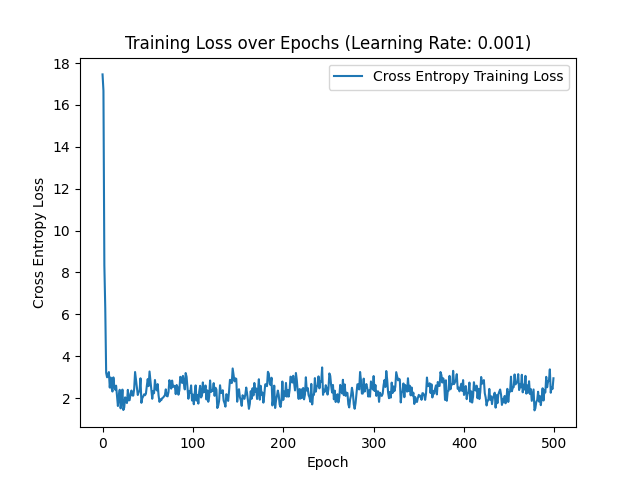
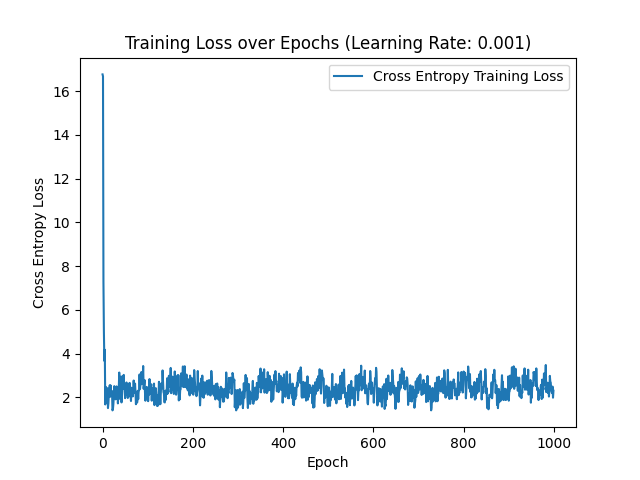
Plot training and testing accuracies too for each epoch

diff --git a/neural_network.py b/neural_network.py
@@ -52,6 +52,11 @@ class NeuralNetwork:
 
         # Initializes loss array
         self.__training_losses = []
+        self.__testing_losses = []
+
+        # Initialize accuracy array
+        self.__training_accuracies = []
+        self.__testing_accuracies = []
 
     def __forward(self, x: []):
         # Forward propagation
@@ -75,12 +80,11 @@ class NeuralNetwork:
     def train(self):
         for epoch in range(1, self.__num_epochs + 1):
             hidden1_input, hidden1_output, hidden2_input, hidden2_output, output = self.__forward(x=self.__x_train)
-            cross_entropy_loss, one_hot_labels = self.__get_cross_entropy_loss(x=self.__x_train, y=self.__y_train, output=output)
-
-            self.__training_losses.append(cross_entropy_loss)
+            training_cross_entropy_loss, training_one_hot_labels = self.__get_cross_entropy_loss(x=self.__x_train, y=self.__y_train, output=output)
+            self.__training_losses.append(training_cross_entropy_loss)
 
             # Backpropagation
-            output_error = output - one_hot_labels
+            output_error = output - training_one_hot_labels
             hidden2_error = np.dot(output_error, self.__hidden2_output_weights.T)
             hidden2_error[hidden2_input <= 0] = 0
             hidden1_error = np.dot(hidden2_error, self.__hidden1_hidden2_weights.T)
@@ -102,31 +106,46 @@ class NeuralNetwork:
             self.__hidden2_output_weights = self.__hidden2_output_weights - self.__learning_rate * grad_weights_hidden2_output
             self.__output_bias = self.__output_bias - self.__learning_rate * grad_bias_output
 
-            train_predictions = np.argmax(output, axis=1)  # Predicted classes for training data
-            train_true_labels = np.argmax(one_hot_labels, axis=1)  # True classes for training data
-            training_accuracy = np.mean(train_predictions == train_true_labels)  # Training accuracy
+            # Training data metrics
+            training_predictions = np.argmax(output, axis=1)  # Predicted classes for training data
+            training_true_labels = np.argmax(training_one_hot_labels, axis=1)  # True classes for training data
+            training_accuracy = np.mean(training_predictions == training_true_labels)  # Training accuracy
+            self.__training_accuracies.append(training_accuracy)
+
+            # Testing data metrics
+            _, _, _, _, testing_output = self.__forward(x=self.__x_test)
+            testing_cross_entropy_loss, testing_one_hot_labels = self.__get_cross_entropy_loss(x=self.__x_test, y=self.__y_test, output=testing_output)
+            self.__testing_losses.append(testing_cross_entropy_loss)
+            testing_predictions = np.argmax(testing_output, axis=1)  # Predicted classes for testing data
+            testing_true_labels = np.argmax(testing_one_hot_labels, axis=1)  # True classes for testing data
+        
+            # Calculate testing accuracy
+            test_accuracy = np.mean(testing_predictions == testing_true_labels)
+            self.__testing_accuracies.append(test_accuracy)
 
             if epoch % 100 == 0:
-                print(f"Epoch {epoch}, Training Cross Entropy Loss: {cross_entropy_loss}, Training Accuracy: {training_accuracy}")
+                print(f"Epoch {epoch}, Training Cross Entropy Loss: {training_cross_entropy_loss}, Training Accuracy: {training_accuracy}")
+                print(f"Epoch {epoch}, Testing Cross Entropy Loss: {testing_cross_entropy_loss}, Testing Accuracy: {test_accuracy}")
 
-    def test(self):
-        _, _, _, _, output = self.__forward(x=self.__x_test)
+    def plot(self):
+        y_label = "Cross Entropy Loss"
+        training_mode = "Training"
+        testing_mode = "Testing"
+        self.__plot_internal(mode=training_mode, y=self.__training_losses, y_label=y_label)
+        self.__plot_internal(mode=testing_mode, y=self.__testing_losses, y_label=y_label)
 
-        # Calculate the testing loss using cross-entropy
-        cross_entropy_loss, one_hot_labels = self.__get_cross_entropy_loss(x=self.__x_test, y=self.__y_test, output=output)
-        test_predictions = np.argmax(output, axis=1)  # Predicted classes for testing data
-        test_true_labels = np.argmax(one_hot_labels, axis=1)  # True classes for testing data
+        y_label = "Accuracy"
+        self.__plot_internal(mode=training_mode, y=self.__training_accuracies, y_label=y_label)
+        self.__plot_internal(mode=testing_mode, y=self.__testing_accuracies, y_label=y_label)
 
-        # Calculate testing accuracy
-        test_accuracy = np.mean(test_predictions == test_true_labels)
-        print(f'Testing Cross Entropy Loss: {cross_entropy_loss}, Testing Accuracy: {test_accuracy}')
-
-    def plot_train_loss(self):
-        plt.plot(range(self.__num_epochs), self.__training_losses, label="Cross Entropy Training Loss")
+    def __plot_internal(self, mode: str, y, y_label: str):
+        plt.plot(range(self.__num_epochs), y, label=f"{mode} {y_label}")
         plt.xlabel("Epoch")
-        plt.ylabel("Cross Entropy Loss")
-        plt.title(f"Training Loss over Epochs (Learning Rate: {self.__learning_rate})")
+        plt.ylabel(y_label)
+        plt.title(f"{mode} {y_label} over Epochs (Learning Rate: {self.__learning_rate})")
         plt.legend()
         # plt.figure(figsize=(6, 4))
-        plt.savefig(f"training-loss-for-learning-rate-{self.__learning_rate}.png")  # Adjust the filename and format as needed
+        file_name = f"{mode} {y_label} for learning rate {self.__learning_rate}.png"
+        file_name = file_name.replace(" ", "_").lower()
+        plt.savefig(file_name)
         plt.close()

diff --git a/main.py b/main.py
@@ -15,5 +15,4 @@ if __name__ == "__main__":
         print(f"Training neural network with learning rate: {learning_rate}, number of epochs: {num_epochs}")
         nn = NeuralNetwork(x_train=x_train.values, y_train=y_train.values, x_test=x_test.values, y_test=y_test.values, learning_rate=learning_rate, num_epochs=num_epochs)
         nn.train()
-        nn.plot_train_loss()
-        nn.test()
+        nn.plot()
